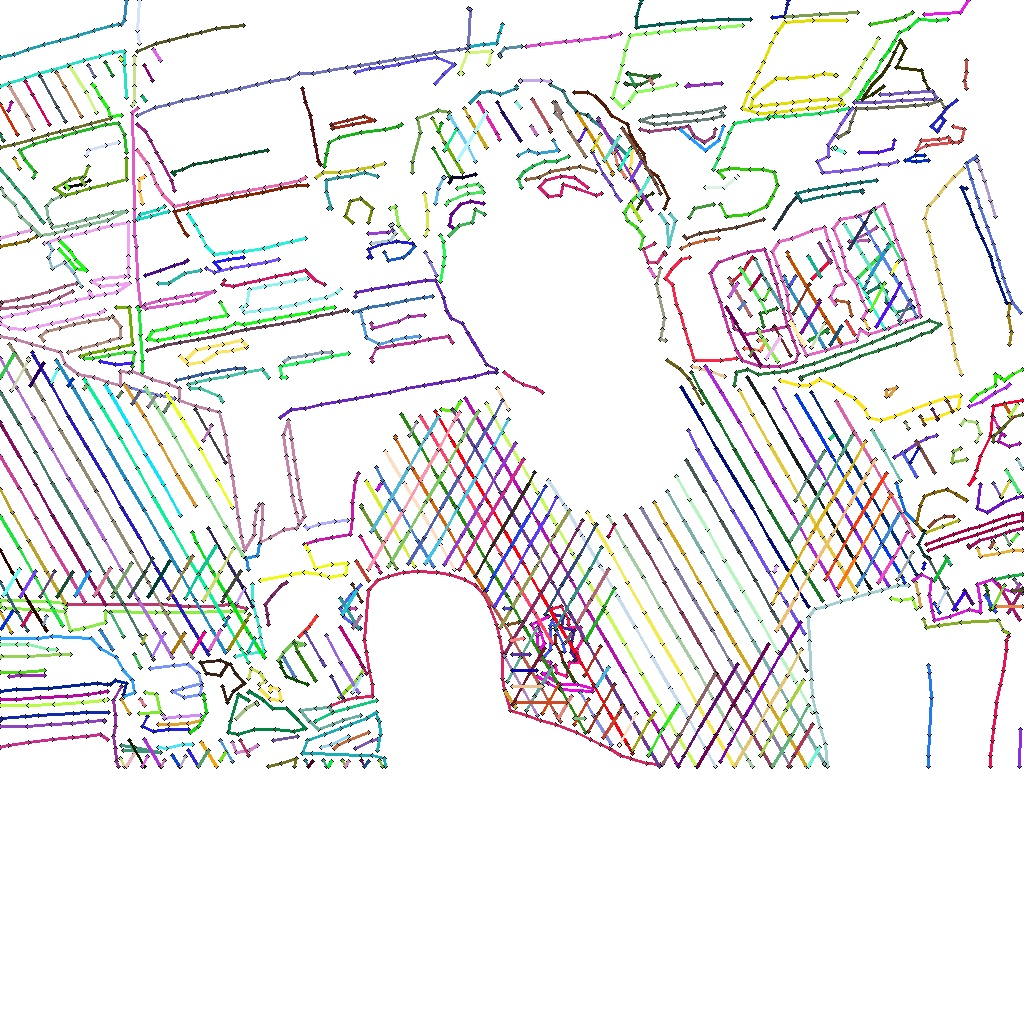
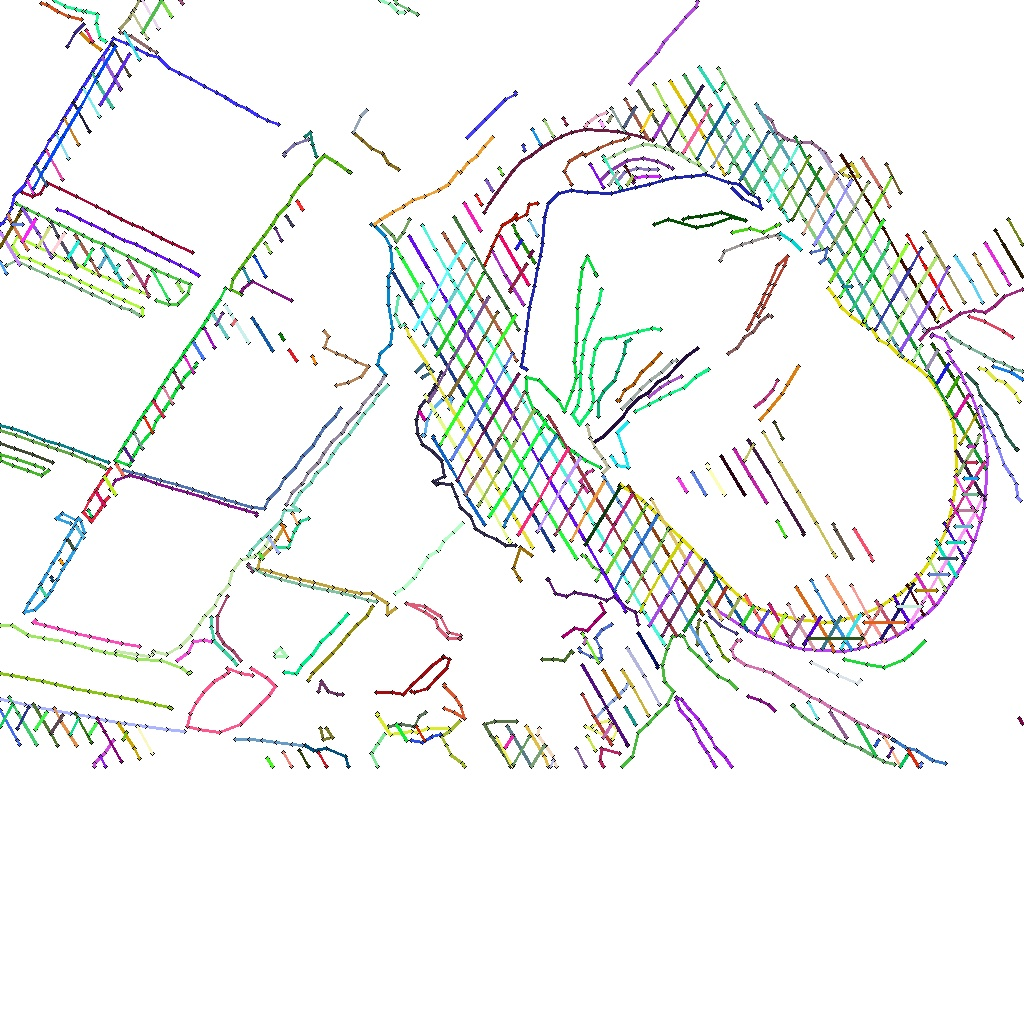
e

diff --git a/Picasso_Bot_Gui.py b/Picasso_Bot_Gui.py
@@ -12,6 +12,9 @@ from time import sleep  # not needed, but could become necessary
 import time
 # import draw_image
 import preview_image
+import image_processing
+import trajectory_planning
+import run_gantry
 
 '''
 GLOBALS
@@ -22,20 +25,7 @@ isSamir = True
 isNikhil = False
 
 # to access the array of the picture being taken, call variable final_picture, might need try/except
-def take_picture(picture):  # takes a picture, in a thread later on
-    global pause
-    # picture = cv2.VideoCapture(0)
-    
-    ret, frame = picture.read()
-    final_picture = np.fliplr(frame)
-    # cv2.imwrite("/home/soft-dev/Documents/GantryGame3.0/picassopicture.png", final_picture)
-    cv2.imwrite("picassopicture.png", final_picture)
-    
-    preview_image.main(final_picture)
 
-    # picture.release()
-    pause = True
-    return final_picture
 
 
 '''
@@ -44,6 +34,29 @@ END GLOBALS
 
 
 class CamApp(App):  # build for kivy display
+    
+    def take_picture(self, picture):  # takes a picture, in a thread later on
+        global pause
+        # picture = cv2.VideoCapture(0)
+        
+        ret, frame = picture.read()
+        final_picture = np.fliplr(frame)
+        final_picture = cv2.rotate(frame, cv2.ROTATE_90_COUNTERCLOCKWISE)
+        # cv2.imwrite("/home/soft-dev/Documents/GantryGame3.0/picassopicture.png", final_picture)
+        # cv2.imwrite("picassopicture.png", final_picture)
+        
+        # preview_image.main(final_picture)
+        
+        # picture.release()
+        pause = True
+        segments = image_processing.process_combo_raw(final_picture)
+        self.segments = segments
+    #     segments = trajectory_planning.calc_path(segments, 5, .01, 1, 120)
+        self.final_picture = image_processing.plot_segments(segments)
+        
+        
+        return final_picture
+    
     global isSamir, isNikhil
     '''
     Colors and Shading
@@ -84,6 +97,8 @@ class CamApp(App):  # build for kivy display
         layout.add_widget(self.img1)
         self.capture = cv2.VideoCapture(0)
         self.print_image = None
+        self.segments = None
+        self.final_picture = None
         Clock.schedule_interval(self.update, 1.0 / 33.0)
 
         # end cv2stuff
@@ -142,7 +157,7 @@ class CamApp(App):  # build for kivy display
             # self.capture.release()
 
             print('pic taken, see picassopicture.jpg')
-            self.print_image = take_picture(self.capture)
+            self.print_image = self.take_picture(self.capture)
             # Thread(target=take_picture, args=(self.capture,)).start()
             # take_picture()
 
@@ -156,6 +171,10 @@ class CamApp(App):  # build for kivy display
 
         def printing():
             print('start print here')
+            # print(self.segments)
+            freq = 120
+            segments = trajectory_planning.calc_path(self.segments, 5, .001, 1, freq)
+            run_gantry.main(self.segments, freq)
             sleep(5)
             ready_to_print()
 
@@ -198,6 +217,7 @@ class CamApp(App):  # build for kivy display
         global final_picture
         ret, frame = self.capture.read()
         if not pause:
+            frame = cv2.rotate(frame, cv2.ROTATE_90_COUNTERCLOCKWISE)
             buf1 = np.flipud(frame)
             buf2 = np.fliplr(buf1)
             buf = buf2.tobytes()
@@ -206,9 +226,11 @@ class CamApp(App):  # build for kivy display
             self.img1.texture = texture1
         if pause:
             try:
-                buf = final_picture.tobytes()
+                buf1 = np.flipud(self.final_picture)
+                buf2 = np.fliplr(buf1)
+                buf = buf2.tobytes()
                 cv2.destroyAllWindows()
-                texture1 = Texture.create(size=(frame.shape[1], frame.shape[0]), colorfmt='bgr')
+                texture1 = Texture.create(size=(self.final_picture.shape[1], self.final_picture.shape[0]), colorfmt='bgr')
                 texture1.blit_buffer(buf, colorfmt='bgr', bufferfmt='ubyte')
                 self.img1.texture = texture1
             except NameError:  # occurs because variable final_image is not created yet (instantaneously)

diff --git a/image_processing.py b/image_processing.py
@@ -52,13 +52,17 @@ def plot_segments(segments, shape = (512 *2, 512 * 2)):
     #     x1,y1,x2,y2 = int(segments[i][-1][0]*shape[0]), int(segments[i][-1][1]*shape[0]), int(segments[i+1][0][0]*shape[1]), int(segments[i+1][0][1]*shape[1])
     #     cv2.line(img,(x1,y1),(x2,y2),color,2)
                 
+                
+    
+    return img
+    
     cv2.imwrite("test.jpg", img)
 
     cv2.imshow("images", img)
     cv2.waitKey(0)
 
-def process_edges_raw(input_img, blur_radius = 7, lower_thresh =40,
-        upper_thresh = 90, bind_dist = 5, area_cut = 3,
+def process_edges_raw(input_img, blur_radius = 7, lower_thresh =0,
+        upper_thresh = 40, bind_dist = 5, area_cut = 2,
         min_len = 15, q = None):
 
     t0 = time.time()
@@ -96,7 +100,7 @@ def process_edges_raw(input_img, blur_radius = 7, lower_thresh =40,
 
     return segments
 
-def process_shading_raw(input_img, blur_radius = 21, line_dist = 10, theta = None, bind_dist = 5, area_cut = 5,
+def process_shading_raw(input_img, blur_radius = 21, line_dist = 10, theta = None, bind_dist = 20, area_cut = 10,
         min_len = 0, q = None):
 
     splitDistance = 1.5
@@ -184,7 +188,7 @@ if __name__ == "__main__":
 
 
     # filename = "s1.jpg"
-    filename = "lowres.jpg"
+    filename = "picassopicture.png"
     
     input_img = cv2.imread(filename)
     
@@ -212,14 +216,17 @@ if __name__ == "__main__":
     segments = process_combo_raw(input_img)
     print("combo took", time.perf_counter()-t0)
     
-    # plot_segments(segments)
-
+    img = plot_segments(segments)
+    # img = cv2.rotate(img, cv2.ROTATE_90_CLOCKWISE)
+    img = np.fliplr(img)
+    cv2.imshow("picasso pic", img)
+    cv2.waitKey(0)
     # segments = process_combo_raw_multi(input_img)
     # segments =  calc_path(segments, 40, .001, 1, 1020)
     # plot_path_full(segments)
 
-    t0 = time.perf_counter()   
-    segments =  calc_path(segments, 5, .1, 1, 120)
-    print("calc processing took ", time.perf_counter() - t0) #1 thread: 4s, 4 threads: 1.65s, 8 threads 1.4s, 16 threads: 2.1s
+    # t0 = time.perf_counter()   
+    # segments =  calc_path(segments, 5, .1, 1, 120)
+    # print("calc processing took ", time.perf_counter() - t0) #1 thread: 4s, 4 threads: 1.65s, 8 threads 1.4s, 16 threads: 2.1s
     
-    plot_path_full(segments)
+    # plot_path_full(segments)

diff --git a/gantry.py b/gantry.py
@@ -176,8 +176,8 @@ In the event that the position that it is in is not the position that it wasn't,
             # print("x", x, self.x.get_pos())
             # print("y", y, self.y.get_pos())
             
-            if abs(self.x.get_pos() - x) <= .01 or x == -1:
-                if abs(self.y.get_pos() - y) <= .01 or y == -1:
+            if abs(self.x.get_pos() - x) <= .1 or x == -1:
+                if abs(self.y.get_pos() - y) <= .1 or y == -1:
 
                     self.requested_pos = [x, y]
                     return

diff --git a/servo.py b/servo.py
@@ -9,12 +9,14 @@ pwm.write(180)
 def pen_up():
     print("Pen up")
     pwm.write(100) #writes pwm
+    time.sleep(.1)
 
 
 #puts the pen down
 def pen_down():
     print("pen down")
     pwm.write(80) #writes pwm
+    time.sleep(.1)
 
     
 def up_damp(delay=.015, hold_pow=.2):
